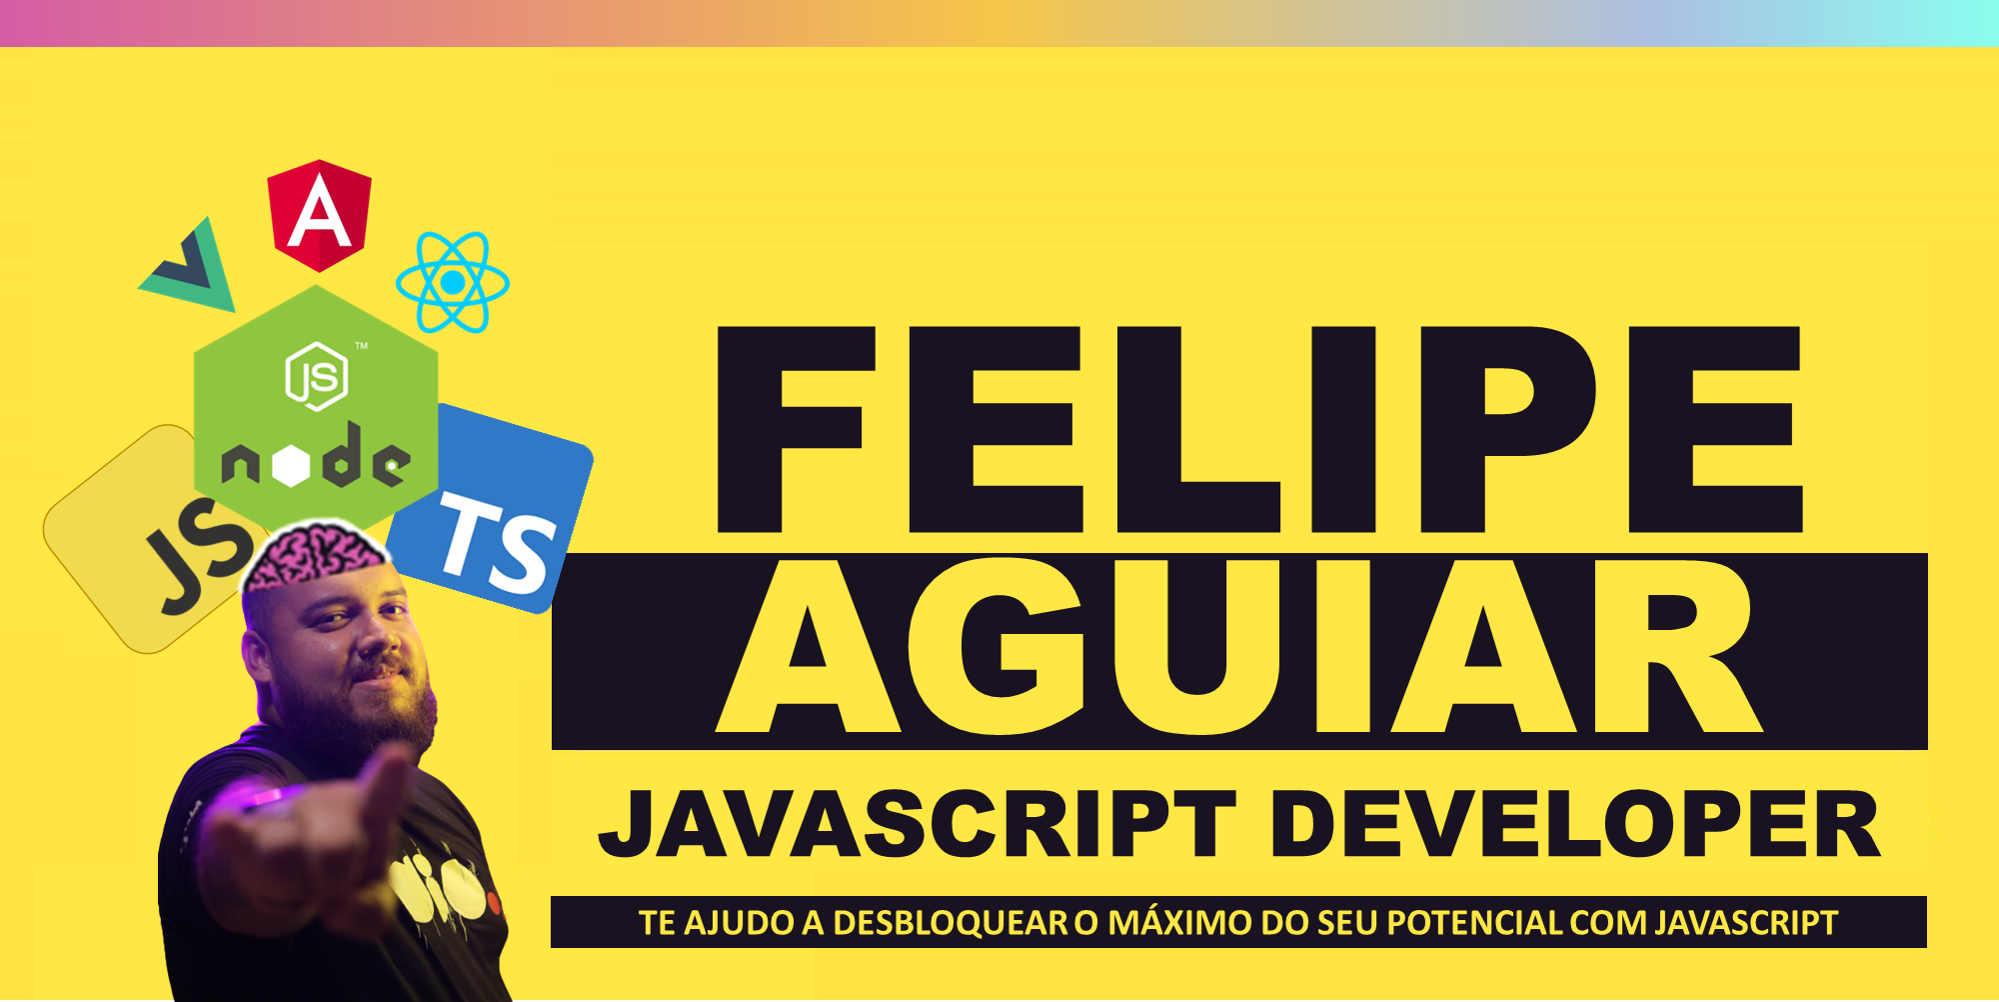
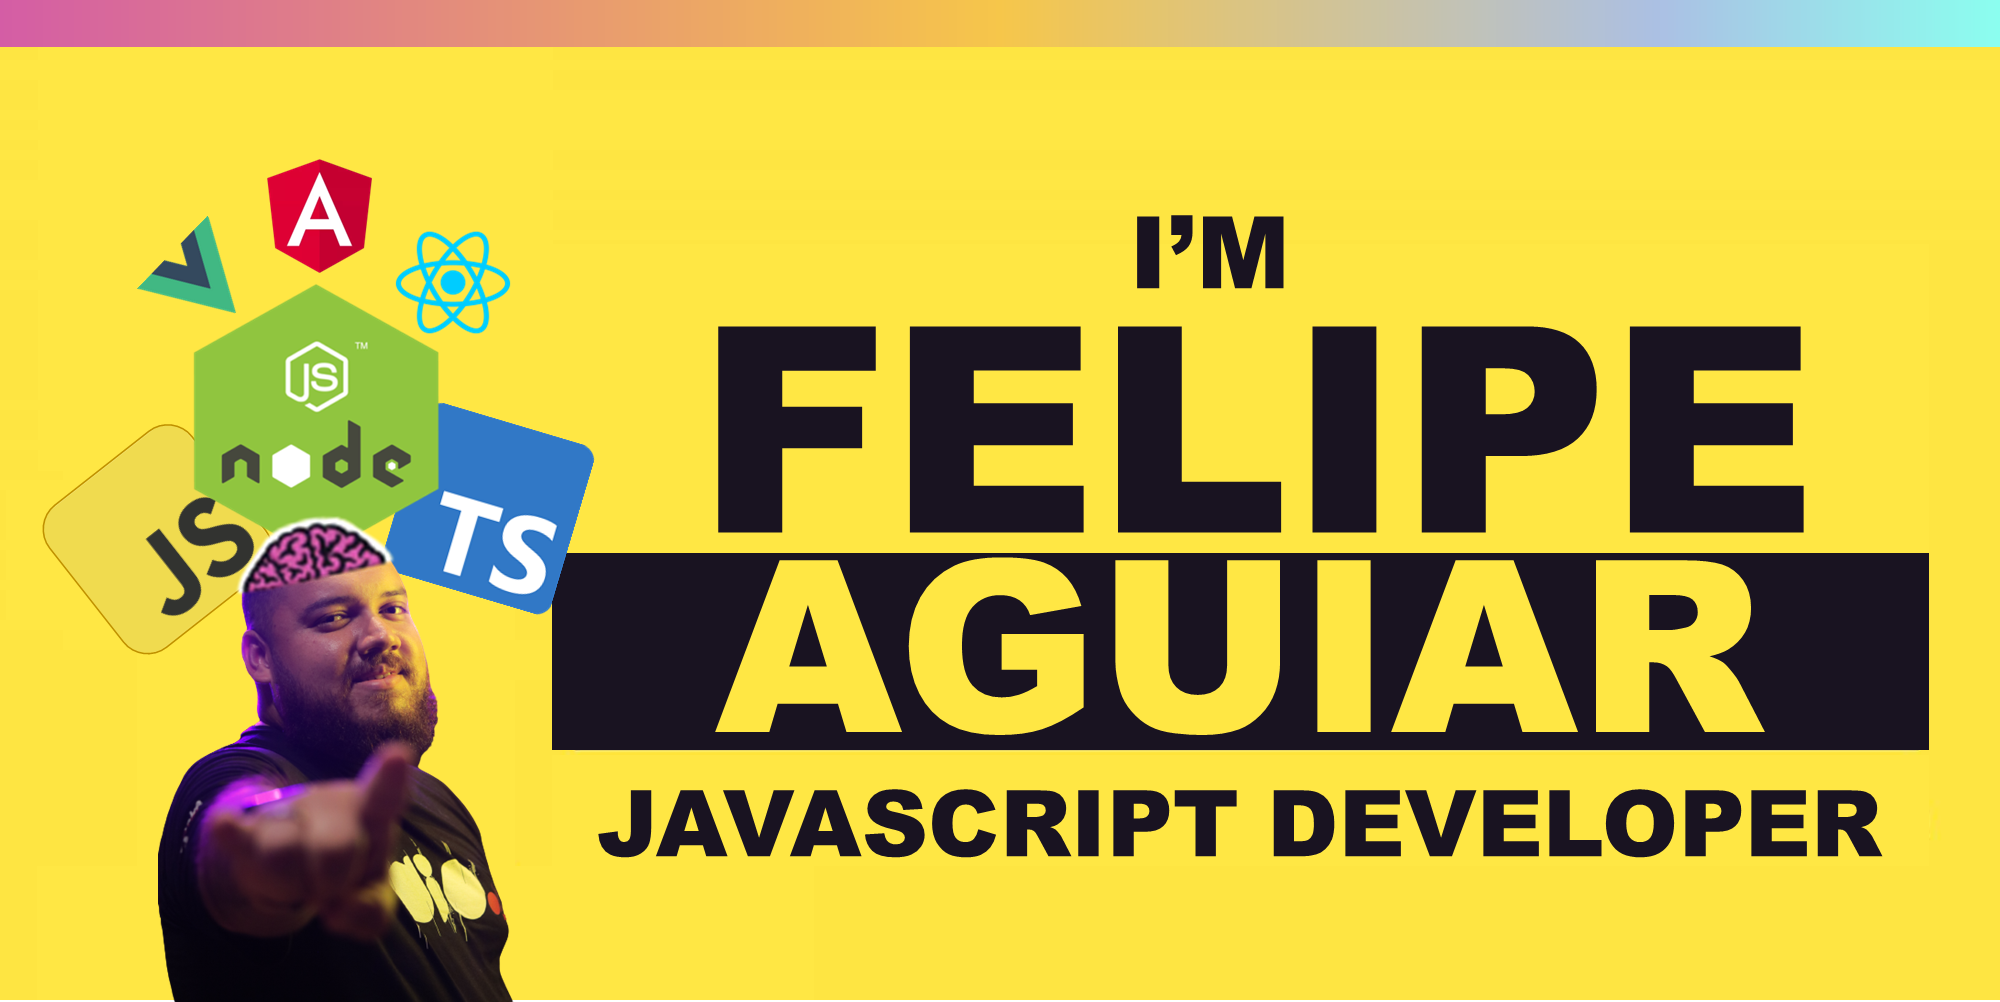
update cover text

Changed region(s): [[0.2481, 0.8972, 0.9615, 0.9591], [0.5583, 0.2166, 0.6513, 0.3094]]

diff --git a/README.md b/README.md
@@ -1,5 +1,5 @@
 <h1 align="center">
-  Hello World, I'm Felipe👋
+  Hello World 👋
 </h1>
 
 <div align="center">
